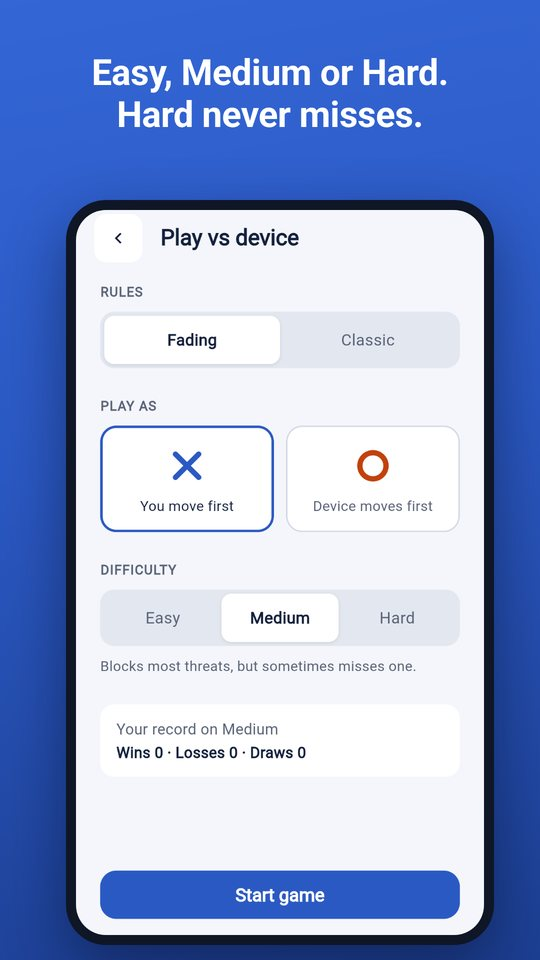
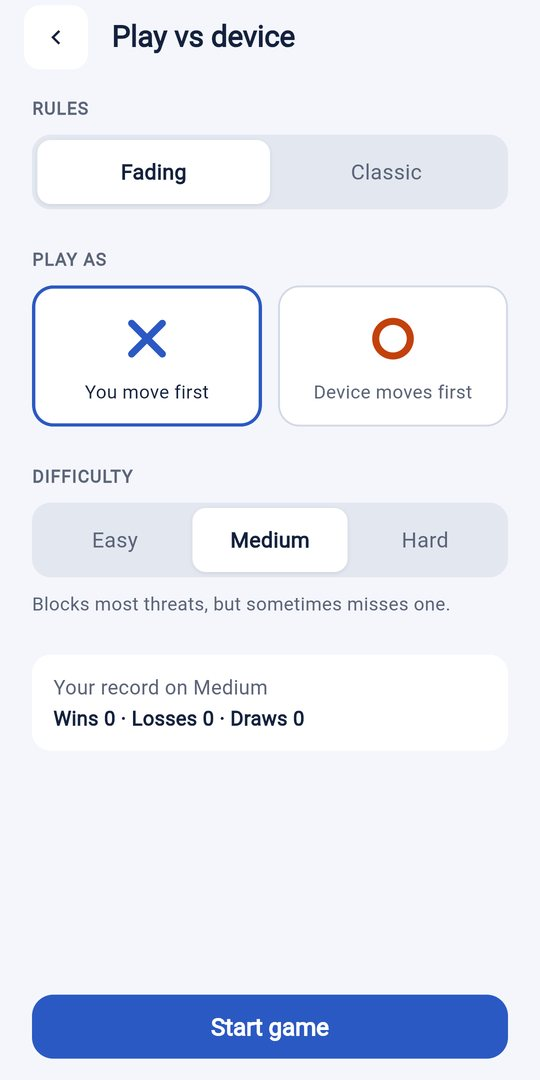
Update Fading Tic-Tac-Toe screenshots to the regenerated store images
The game's Play Store screenshots are now plain full-screen app screens
(1080x2160, no device frame or caption). Resized copies at 540x1080
replace the old ones, and the page's screenshot ratio is now 1:2.

Claude-Session: https://claude.ai/code/session_01HzYbdFDKDs4hfJdvSz9gzo

diff --git a/fading-tic-tac-toe/index.html b/fading-tic-tac-toe/index.html
@@ -11,7 +11,7 @@
   <link rel="preload" href="../assets/fonts/nunito-400.woff2" as="font" type="font/woff2" crossorigin>
   <link rel="stylesheet" href="../assets/style.css">
 </head>
-<body class="theme-blue" style="--shot-ratio: 9 / 16">
+<body class="theme-blue" style="--shot-ratio: 1 / 2">
 <a class="skip" href="#policy">Skip to the policy</a>
 
 <header class="site-header">
@@ -115,7 +115,7 @@
             </ul>
             <p>This information never leaves your device and we never see it. Uninstalling the game deletes it.</p>
           </div>
-          <figure><img src="img/shot-difficulty.jpg" alt="Play vs device screen with rules, difficulty and the player's win, loss and draw record" width="540" height="960" loading="lazy"><figcaption>Your record is saved on your device only.</figcaption></figure>
+          <figure><img src="img/shot-difficulty.jpg" alt="Play vs device screen with rules, difficulty and the player's win, loss and draw record" width="540" height="1080" loading="lazy"><figcaption>Your record is saved on your device only.</figcaption></figure>
         </div>
       </section>
 
@@ -141,7 +141,7 @@
               <li>When playing against the device, you can choose to watch a video ad to get a hint. This is always optional.</li>
             </ul>
           </div>
-          <figure><img src="img/shot-fading.jpg" alt="A Fading Tic-Tac-Toe game in progress, with no ads on screen" width="540" height="960" loading="lazy"><figcaption>No ads while you play.</figcaption></figure>
+          <figure><img src="img/shot-fading.jpg" alt="A Fading Tic-Tac-Toe game in progress, with no ads on screen" width="540" height="1080" loading="lazy"><figcaption>No ads while you play.</figcaption></figure>
         </div>
 
         <h3>Your choices</h3>
@@ -230,11 +230,11 @@
         <p>Tic-tac-toe with a twist: you keep two marks, and your oldest one fades away.</p>
       </div>
       <div class="shots" role="list" aria-label="Fading Tic-Tac-Toe screenshots">
-        <figure role="listitem"><img src="img/shot-fading.jpg" alt="A game with fading marks: each player keeps two marks and the oldest one fades" width="540" height="960" loading="lazy"><figcaption>Fading marks</figcaption></figure>
-        <figure role="listitem"><img src="img/shot-home.jpg" alt="Home screen with the choice of Fading or Classic rules" width="540" height="960" loading="lazy"><figcaption>Fading or Classic</figcaption></figure>
-        <figure role="listitem"><img src="img/shot-rules.jpg" alt="Step 2 of the illustrated guide to the rules" width="540" height="960" loading="lazy"><figcaption>How to play</figcaption></figure>
-        <figure role="listitem"><img src="img/shot-difficulty.jpg" alt="Play vs device setup with Easy, Medium and Hard" width="540" height="960" loading="lazy"><figcaption>Three difficulties</figcaption></figure>
-        <figure role="listitem"><img src="img/shot-dark.jpg" alt="A two-player game in the dark theme" width="540" height="960" loading="lazy"><figcaption>Dark theme</figcaption></figure>
+        <figure role="listitem"><img src="img/shot-fading.jpg" alt="A game with fading marks: each player keeps two marks and the oldest one fades" width="540" height="1080" loading="lazy"><figcaption>Fading marks</figcaption></figure>
+        <figure role="listitem"><img src="img/shot-home.jpg" alt="Home screen with the choice of Fading or Classic rules" width="540" height="1080" loading="lazy"><figcaption>Fading or Classic</figcaption></figure>
+        <figure role="listitem"><img src="img/shot-rules.jpg" alt="Step 2 of the illustrated guide to the rules" width="540" height="1080" loading="lazy"><figcaption>How to play</figcaption></figure>
+        <figure role="listitem"><img src="img/shot-difficulty.jpg" alt="Play vs device setup with Easy, Medium and Hard" width="540" height="1080" loading="lazy"><figcaption>Three difficulties</figcaption></figure>
+        <figure role="listitem"><img src="img/shot-dark.jpg" alt="A two-player game in the dark theme" width="540" height="1080" loading="lazy"><figcaption>Dark theme</figcaption></figure>
       </div>
     </div>
   </section>

diff --git a/index.html b/index.html
@@ -47,7 +47,7 @@
       </div>
       <div class="hero-art" aria-hidden="true">
         <img src="whack-it-world/img/shot-home.jpg" alt="" width="540" height="1169">
-        <img src="fading-tic-tac-toe/img/shot-fading.jpg" alt="" width="540" height="960">
+        <img src="fading-tic-tac-toe/img/shot-fading.jpg" alt="" width="540" height="1080">
       </div>
     </div>
   </section>
